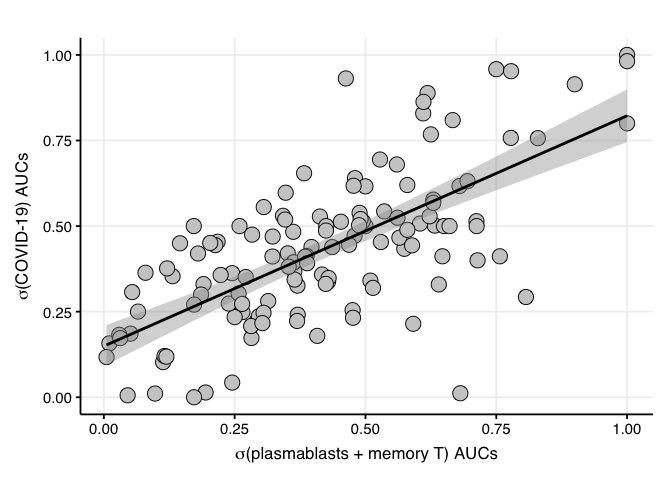
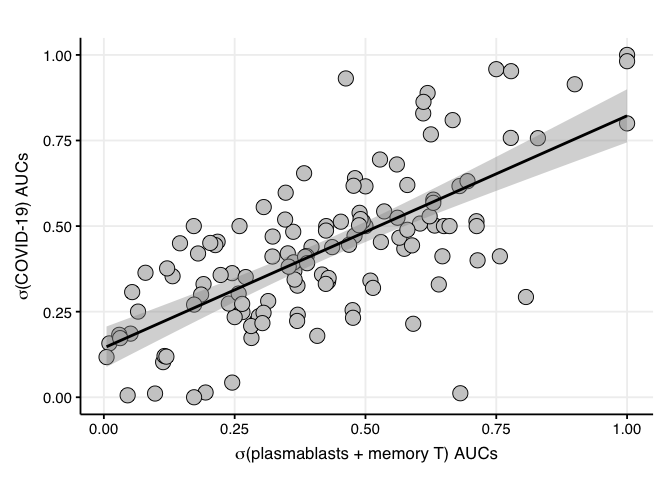
fig 4

diff --git a/R/markdown/fig_4_COVID19_signature_fit.md b/R/markdown/fig_4_COVID19_signature_fit.md
@@ -53,7 +53,7 @@ greedy_cell_specific_alignment$best_cell_signature
     ## [1] "IRIS_PlasmaCell-FromPBMC_up"
     ## 
     ## [[1]]$best_COVID19_cell_signatures_cor2
-    ## [1] 0.3344707
+    ## [1] 0.3411229
     ## 
     ## 
     ## [[2]]
@@ -61,7 +61,7 @@ greedy_cell_specific_alignment$best_cell_signature
     ## [1] "IRIS_PlasmaCell-FromPBMC_up+IRIS_MemoryTcell-RO-unactivated_up"
     ## 
     ## [[2]]$best_COVID19_cell_signatures_cor2
-    ## [1] 0.4727243
+    ## [1] 0.4794752
 
 Plotting results: scatterplot
 
@@ -109,6 +109,120 @@ best_alignment_AUC <- best_alignment_AUC %>%
   ))
 
 
+#check statistics the AUC distributions from different signatures
+lapply(split(best_alignment_AUC, 
+             best_alignment_AUC$signature), 
+       function(x) 
+  x %>%
+    group_by(class1) %>%
+    summarise(perfomance = quantile(AUC, probs = c(0.25, 0.5, 0.75)), .groups = 'drop')
+  )
+```
+
+    ## $COVID19
+    ## # A tibble: 12 x 2
+    ##    class1         perfomance
+    ##    <ord>               <dbl>
+    ##  1 COVID-19            0.784
+    ##  2 COVID-19            0.863
+    ##  3 COVID-19            0.942
+    ##  4 viral               0.300
+    ##  5 viral               0.393
+    ##  6 viral               0.445
+    ##  7 bacterial           0.173
+    ##  8 bacterial           0.290
+    ##  9 bacterial           0.488
+    ## 10 non infectious      0.361
+    ## 11 non infectious      0.488
+    ## 12 non infectious      0.525
+    ## 
+    ## $plasmablasts
+    ## # A tibble: 12 x 2
+    ##    class1         perfomance
+    ##    <ord>               <dbl>
+    ##  1 COVID-19            0.616
+    ##  2 COVID-19            0.828
+    ##  3 COVID-19            0.935
+    ##  4 viral               0.451
+    ##  5 viral               0.527
+    ##  6 viral               0.628
+    ##  7 bacterial           0.317
+    ##  8 bacterial           0.413
+    ##  9 bacterial           0.463
+    ## 10 non infectious      0.363
+    ## 11 non infectious      0.489
+    ## 12 non infectious      0.628
+    ## 
+    ## $memory_T_cells
+    ## # A tibble: 12 x 2
+    ##    class1         perfomance
+    ##    <ord>               <dbl>
+    ##  1 COVID-19           0.246 
+    ##  2 COVID-19           0.369 
+    ##  3 COVID-19           0.517 
+    ##  4 viral              0.130 
+    ##  5 viral              0.216 
+    ##  6 viral              0.317 
+    ##  7 bacterial          0.0355
+    ##  8 bacterial          0.0986
+    ##  9 bacterial          0.236 
+    ## 10 non infectious     0.247 
+    ## 11 non infectious     0.443 
+    ## 12 non infectious     0.543 
+    ## 
+    ## $plasmablasts_and_memory_T_cells
+    ## # A tibble: 12 x 2
+    ##    class1         perfomance
+    ##    <ord>               <dbl>
+    ##  1 COVID-19            0.622
+    ##  2 COVID-19            0.75 
+    ##  3 COVID-19            0.865
+    ##  4 viral               0.364
+    ##  5 viral               0.427
+    ##  6 viral               0.561
+    ##  7 bacterial           0.138
+    ##  8 bacterial           0.242
+    ##  9 bacterial           0.348
+    ## 10 non infectious      0.318
+    ## 11 non infectious      0.477
+    ## 12 non infectious      0.580
+
+``` r
+#check significance p-values for the AUC distributions from different signatures
+lapply(split(best_alignment_AUC, 
+             best_alignment_AUC$signature), 
+       compute_AUC_distribution_p_values)
+```
+
+    ## $COVID19
+    ##           class1      p_value
+    ## 1       COVID-19 4.061504e-09
+    ## 2          viral 7.366922e-08
+    ## 3      bacterial 2.693925e-07
+    ## 4 non infectious 1.840803e-02
+    ## 
+    ## $plasmablasts
+    ##           class1      p_value
+    ## 1       COVID-19 4.864470e-06
+    ## 2          viral 9.735116e-01
+    ## 3      bacterial 2.148082e-03
+    ## 4 non infectious 3.087173e-01
+    ## 
+    ## $memory_T_cells
+    ##           class1      p_value
+    ## 1       COVID-19 9.542508e-01
+    ## 2          viral 1.604151e-11
+    ## 3      bacterial 5.882997e-15
+    ## 4 non infectious 3.245608e-03
+    ## 
+    ## $plasmablasts_and_memory_T_cells
+    ##           class1      p_value
+    ## 1       COVID-19 2.347588e-05
+    ## 2          viral 3.662863e-02
+    ## 3      bacterial 3.462020e-11
+    ## 4 non infectious 2.453493e-02
+
+``` r
 # scatter plot with correlation
 best_alignment_AUC_scatter_df <-
   tidyr::spread(
@@ -211,13 +325,14 @@ sessionInfo()
     ## 
     ## loaded via a namespace (and not attached):
     ##  [1] Rcpp_1.0.4.6      pillar_1.4.4      compiler_3.6.3    plyr_1.8.6       
-    ##  [5] tools_3.6.3       testthat_2.3.2    digest_0.6.25     evaluate_0.14    
-    ##  [9] lifecycle_0.2.0   tibble_3.0.1      gtable_0.3.0      nlme_3.1-144     
-    ## [13] lattice_0.20-38   mgcv_1.8-31       pkgconfig_2.0.3   rlang_0.4.11     
-    ## [17] Matrix_1.2-18     yaml_2.2.1        xfun_0.15         withr_2.2.0      
-    ## [21] stringr_1.4.0     knitr_1.29        generics_0.0.2    vctrs_0.3.1      
-    ## [25] grid_3.6.3        tidyselect_1.1.0  glue_1.4.1        R6_2.4.1         
-    ## [29] rmarkdown_2.3     farver_2.0.3      purrr_0.3.4       tidyr_1.1.0      
-    ## [33] magrittr_2.0.1    scales_1.1.1      ellipsis_0.3.1    htmltools_0.5.1.1
-    ## [37] ggthemes_4.2.0    splines_3.6.3     colorspace_1.4-1  labeling_0.3     
-    ## [41] stringi_1.4.6     munsell_0.5.0     crayon_1.3.4
+    ##  [5] tools_3.6.3       testthat_2.3.2    digest_0.6.25     lattice_0.20-38  
+    ##  [9] nlme_3.1-144      evaluate_0.14     lifecycle_0.2.0   tibble_3.0.1     
+    ## [13] gtable_0.3.0      mgcv_1.8-31       pkgconfig_2.0.3   rlang_0.4.11     
+    ## [17] Matrix_1.2-18     cli_2.0.2         yaml_2.2.1        xfun_0.15        
+    ## [21] withr_2.2.0       stringr_1.4.0     knitr_1.29        generics_0.0.2   
+    ## [25] vctrs_0.3.1       grid_3.6.3        tidyselect_1.1.0  glue_1.4.1       
+    ## [29] R6_2.4.1          fansi_0.4.1       rmarkdown_2.3     farver_2.0.3     
+    ## [33] purrr_0.3.4       tidyr_1.1.0       magrittr_2.0.1    splines_3.6.3    
+    ## [37] scales_1.1.1      ellipsis_0.3.1    htmltools_0.5.1.1 ggthemes_4.2.0   
+    ## [41] assertthat_0.2.1  colorspace_1.4-1  labeling_0.3      utf8_1.1.4       
+    ## [45] stringi_1.4.6     munsell_0.5.0     crayon_1.3.4
